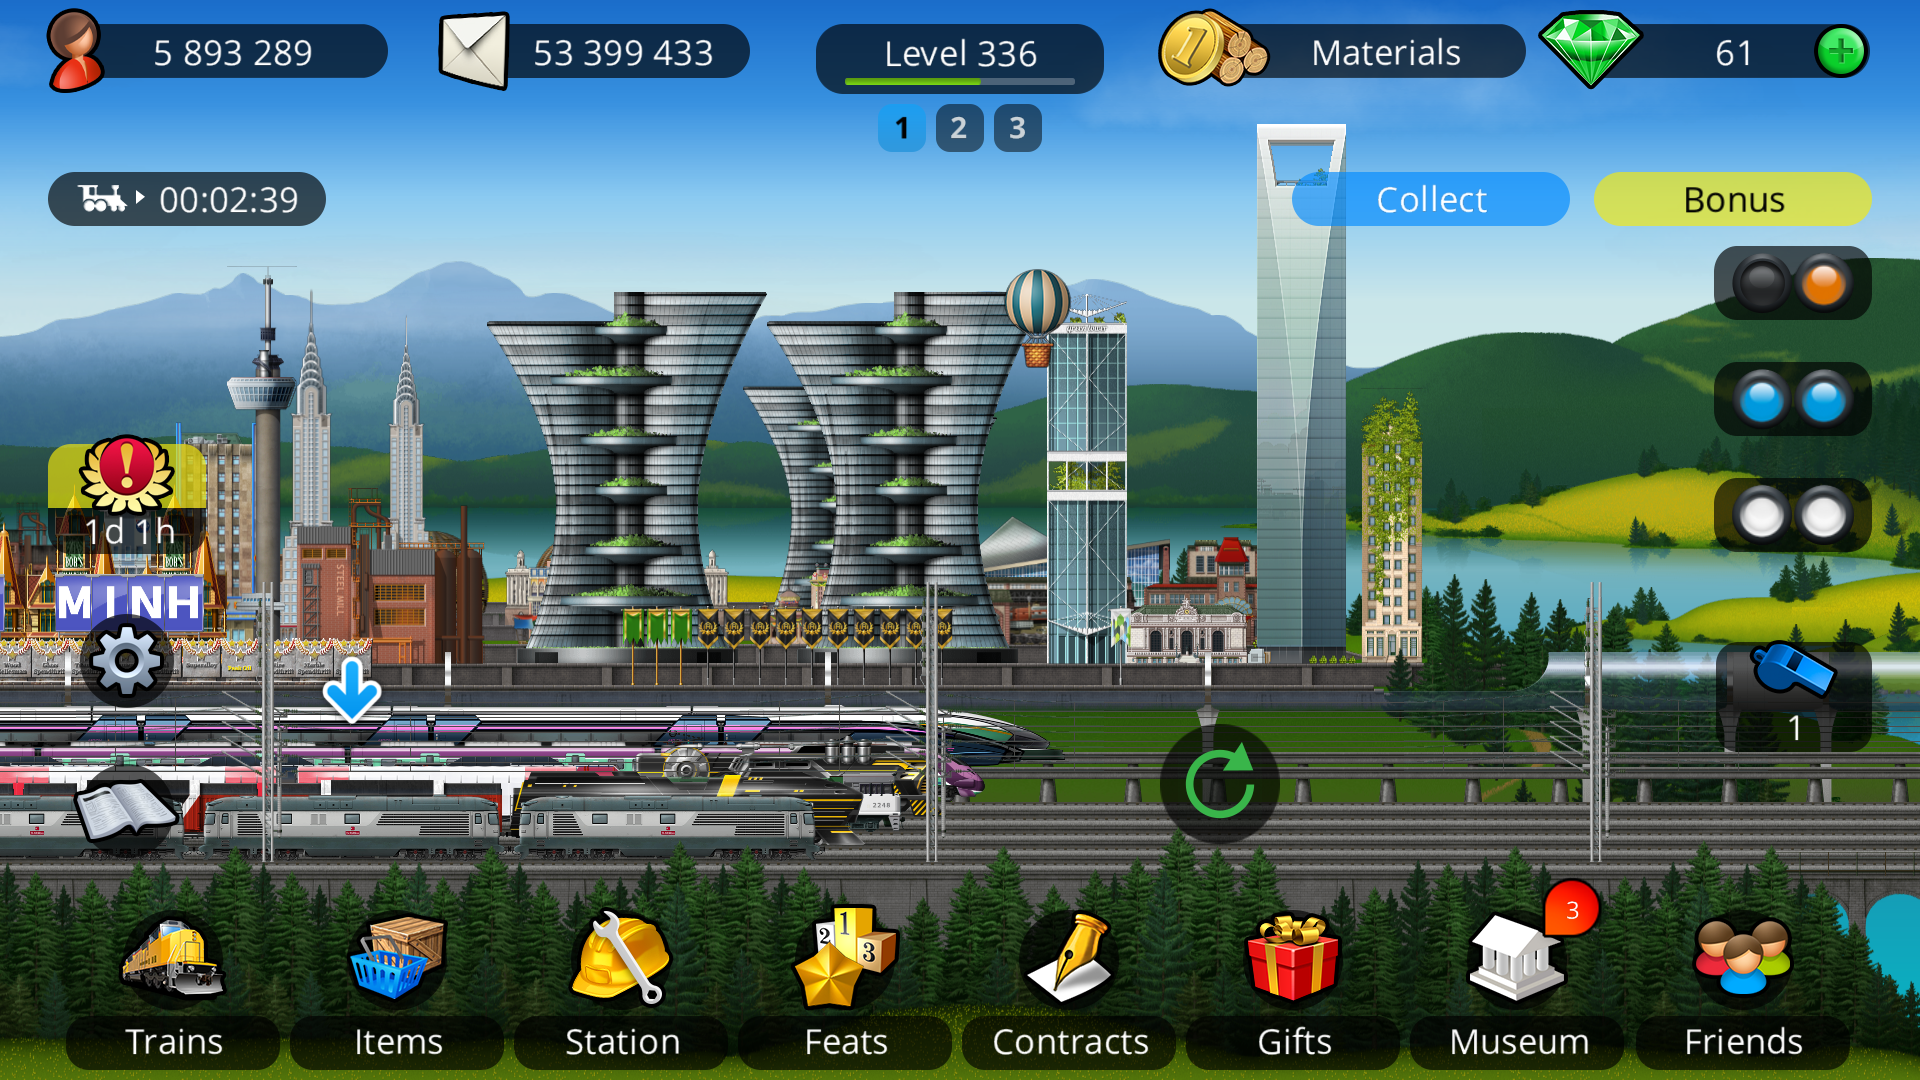
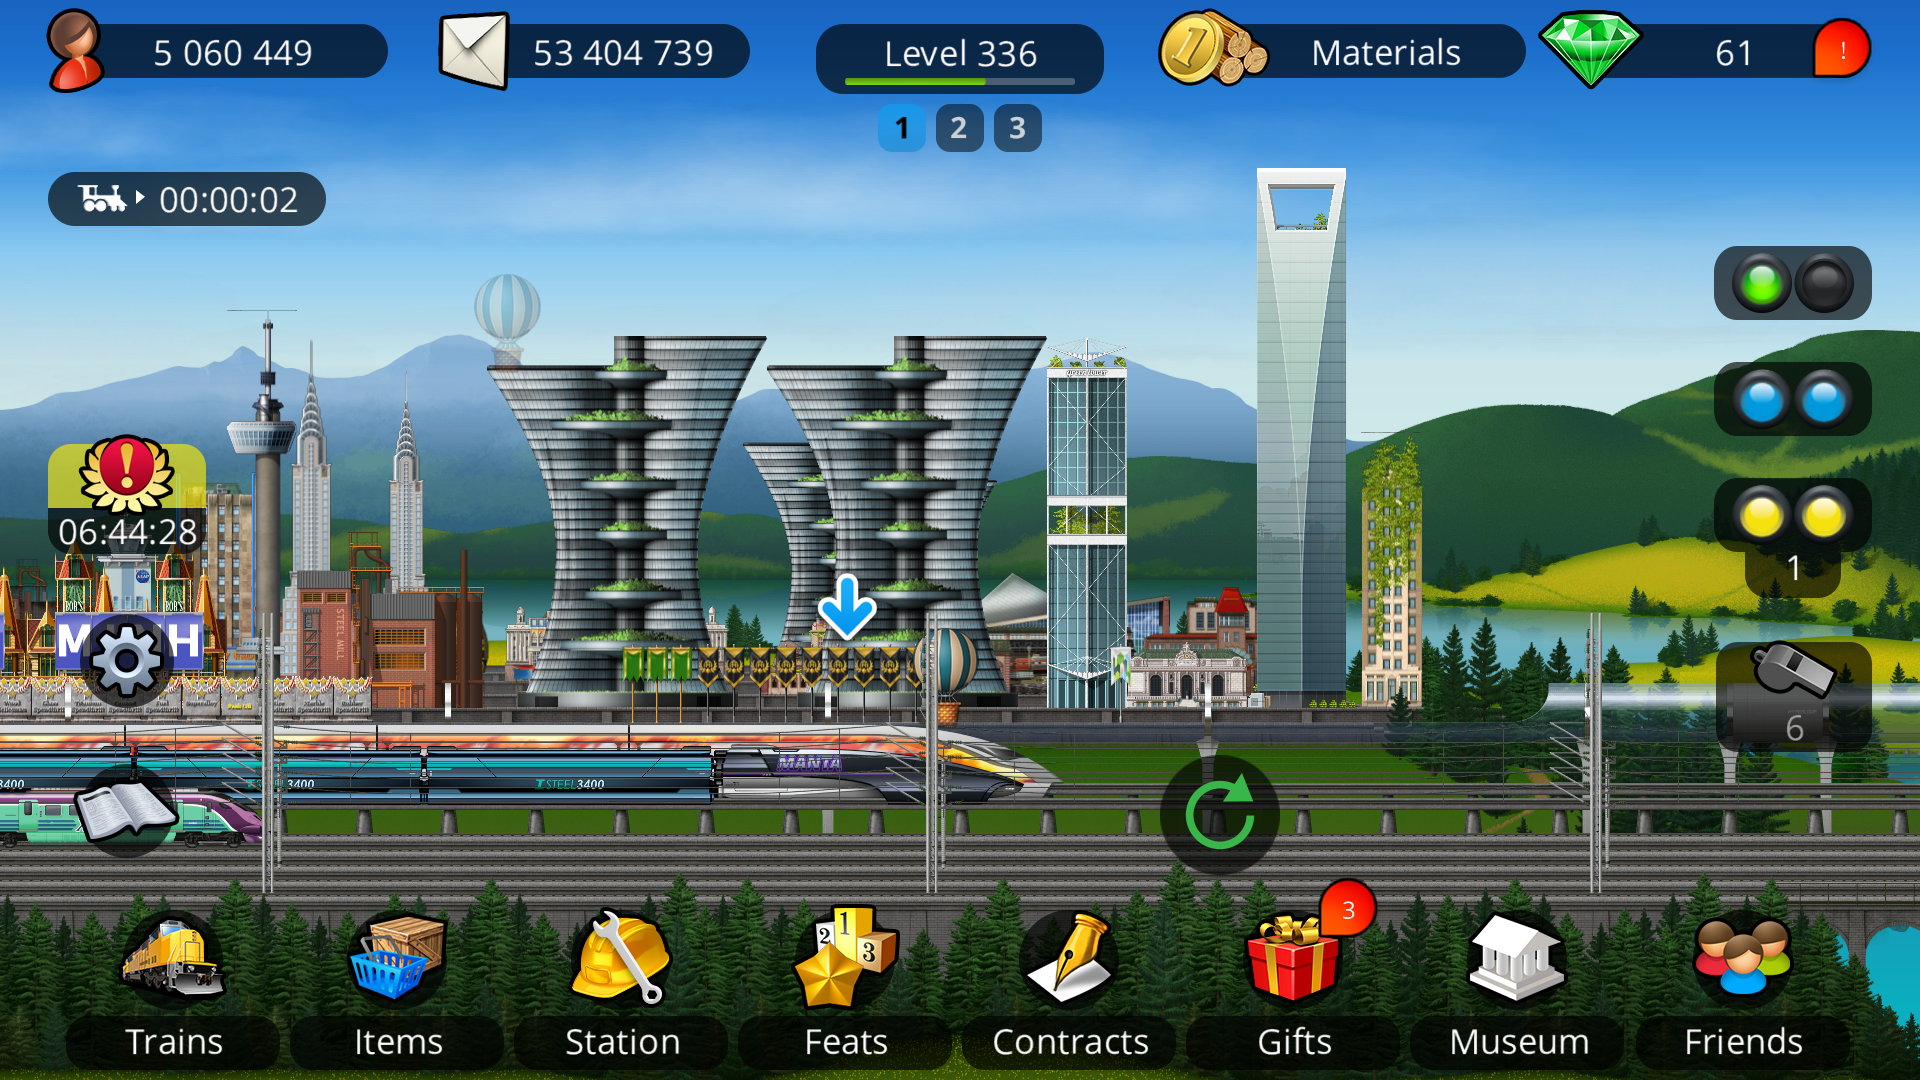
first working prototype: send train, collect bonus

diff --git a/tasks/local.py b/tasks/local.py
@@ -1,5 +1,4 @@
-import cv2
-import numpy as np
+import time
 from helper import logger, check_pixel, load_coords, load_config, save_config, click, swipe, take_screenshot
 from tasks import watch_ad
 
@@ -14,18 +13,20 @@ def metropolis(resend):
     
     click(coords['TrainBtn']['x'], coords['TrainBtn']['y'])
     swipe(500, 250, 500, 750)
+    click(coords['SendTrainBtn']['x'], coords['SendTrainBtn']['y'])
     screen = take_screenshot()
+    if check_pixel(screen, coords['SendTrainBtn']['x'], coords['SendTrainBtn']['y'], coords['SendTrainBtn']['color']):
+        click(coords['SendTrainBtn']['x'], coords['SendTrainBtn']['y'])
+        screen = take_screenshot()
     
     metro = 'Closed'
     for state in ['Open', 'Video']:
         r = check_pixel(screen, coords[f"Metropolis{state}"]['x'], coords[f"Metropolis{state}"]['y'], coords[f"Metropolis{state}"]['color'])
         if r:
             metro = state
-    
     if metro == 'Video':
-        click(coords['MetropolisVideo']['x'], coords['MetropolisVideo']['y'])
         logger.info('METROPOLIS_VIDEO')
-        if config.getboolean('LocalTrain', 'metropolis_ad'):     
+        if config.getboolean('LocalTrain', 'metro_ad'):     
             watch_ad.run()
         else:
             metro = 'Closed'
@@ -35,36 +36,59 @@ def metropolis(resend):
     logger.info('METROPOLIS_OPEN')
     save_config(config)
 
+def send():
+    screen = take_screenshot()
+    if not check_pixel(screen, coords['CloseTrainSend']['x'], coords['CloseTrainSend']['y'], coords['CloseTrainSend']['color'], 0.99):
+        click(coords['TrainBtn']['x'], coords['TrainBtn']['y'])
+        click(coords['SendTrainBtn']['x'], coords['SendTrainBtn']['y'])
+        click(coords['SendTrainBtn']['x'], coords['SendTrainBtn']['y'])
+    complete = False
+    while not complete:
+        if config.get('LocalTrain', 'destination') == 'Metropolis':
+            click(coords['MetropolisOpen']['x'], coords['MetropolisOpen']['y'])
+        else:
+            click(coords['5min']['x'], coords['5min']['y'])
+        while True:
+            screen = take_screenshot()
+            if check_pixel(screen, coords['SendTrainBtn']['x'], coords['SendTrainBtn']['y'], coords['SendTrainBtn']['color']):
+                click(coords['SendTrainBtn']['x'], coords['SendTrainBtn']['y'])
+                click(coords['SendTrainBtn']['x'], coords['SendTrainBtn']['y'])
+                break
+            if check_pixel(screen, coords['SendTrainComplete']['x'], coords['SendTrainComplete']['y'], coords['SendTrainComplete']['color']):
+                click(coords['CloseTrainSend']['x'], coords['CloseTrainSend']['y'])
+                complete = True
+                break
+            time.sleep(1)
+
 def local_state(image):
-    image = cv2.cvtColor(np.array(image), cv2.COLOR_RGB2GRAY)
-    arrvd = cv2.imread('template/arrvd.png', cv2.IMREAD_GRAYSCALE)
-    arrv = cv2.imread('template/arrv.png', cv2.IMREAD_GRAYSCALE)
-    pending = cv2.imread('template/pending.png', cv2.IMREAD_GRAYSCALE)
-    
-    arrvd = cv2.matchTemplate(image, arrvd, cv2.TM_CCOEFF_NORMED)
-    arrv = cv2.matchTemplate(image, arrv, cv2.TM_CCOEFF_NORMED)
-    pending = cv2.matchTemplate(image, pending, cv2.TM_CCOEFF_NORMED)
-    
-    r = {
-        'arrvd': cv2.minMaxLoc(arrvd)[1],
-        'arrv': cv2.minMaxLoc(arrv)[1],
-        'pending': cv2.minMaxLoc(pending)[1]
-    }
-    return max(r, key=r.get)
-    
+    if check_pixel(image, coords['LocalTrainPen1']['x'], coords['LocalTrainPen1']['y'], coords['LocalTrainPen1']['color']) or \
+        check_pixel(image, coords['LocalTrainPen2']['x'], coords['LocalTrainPen2']['y'], coords['LocalTrainPen2']['color']):
+        return 'pending'
+    if check_pixel(image, coords['LocalTrainArrv1']['x'], coords['LocalTrainArrv1']['y'], coords['LocalTrainArrv1']['color']) or \
+        check_pixel(image, coords['LocalTrainArrv2']['x'], coords['LocalTrainArrv2']['y'], coords['LocalTrainArrv2']['color']):
+        return 'arrv'
+    if check_pixel(image, coords['LocalTrainArrvd']['x'], coords['LocalTrainArrvd']['y'], coords['LocalTrainArrvd']['color']):
+        return 'arrvd'
+
 def run(image):
     state = local_state(image)
     if state == 'arrv':
         return
-    
     resend = check_pixel(image, coords['Resend']['x'], coords['Resend']['y'], coords['Resend']['color'])
     if resend and config.get('LocalTrain', 'destination') == 'Metropolis':
         click(coords['Resend']['x'], coords['Resend']['y'])
-        logger.info('RESEND')
-    metropolis(resend)
-    if config.get('LocalTrain', 'destination') != 'Metropolis':
         click(coords['Resend']['x'], coords['Resend']['y'])
         logger.info('RESEND')
-    
-    # Send dest
-        
+        return
+    metropolis(resend)
+    if resend and config.get('LocalTrain', 'destination') != 'Metropolis':
+        click(coords['CloseTrainSend']['x'], coords['CloseTrainSend']['y'])
+        click(coords['CloseTrainSend']['x'], coords['CloseTrainSend']['y'])
+        click(coords['Resend']['x'], coords['Resend']['y'])
+        click(coords['Resend']['x'], coords['Resend']['y'])
+        logger.info('RESEND')
+        return
+    send()
+
+def bonus():
+    click(coords['Bonus']['x'], coords['Bonus']['y'])

diff --git a/helper/adb_control.py b/helper/adb_control.py
@@ -1,10 +1,13 @@
 import subprocess
 import io
 from PIL import Image
-from helper import logger, load_config
+import configparser
+from helper import logger
+import time
 
 def scaled_coords(x, y):
-    config = load_config()
+    config = configparser.ConfigParser()
+    config.read('config.ini')
     w = config.getint('Emulator', 'width')
     h = config.getint('Emulator', 'height')
     scaled_x = int((x / 1920) * w)
@@ -31,10 +34,11 @@ def take_screenshot():
 def click(x, y):
     x, y = scaled_coords(x, y)
     subprocess.check_output(['adb', 'shell', 'input', 'touchscreen', 'tap', str(x), str(y)])
-    logger.debug(f"Executed click command 'adb shell input touchsreen tap {str(x)} {str(y)}'")
+    logger.debug(f"Clicked at coordinates: {str(x)} {str(y)}")
+    time.sleep(0.2)
     
 def swipe(x1, y1, x2, y2):
     x1, y1 = scaled_coords(x1, y1)
     x2, y2 = scaled_coords(x2, y2)
     subprocess.check_output(['adb', 'shell', 'input', 'touchscreen', 'swipe', str(x1), str(y1), str(x2), str(y2)])
-    logger.debug(f"Executed swipe command 'adb shell input touchscreen swipe {str(x1)} {str(y1)} {str(x2)} {str(y2)}'")
+    logger.debug(f"Swiped from {str(x1)} {str(y1)} to {str(x2)} {str(y2)}")

diff --git a/main.py b/main.py
@@ -1,12 +1,11 @@
 import tkinter as tk
 import customtkinter as ctk
 import configparser
-from helper.UI import UI
+from helper import UI, load_config
 
 def init():
-    config = configparser.ConfigParser()
-    config.read('config.ini')
-    address, port, appearance, theme, scaling, width, height = config.get('Emulator', 'address'), config.get('Emulator', 'port'), config.get('UI', 'appearance'), config.get('UI', 'theme'), config.getfloat('UI', 'scaling'), config.getint('UI', 'width'), config.getint('UI', 'height')
+    config = load_config()
+    appearance, theme, scaling, width, height = config.get('UI', 'appearance'), config.get('UI', 'theme'), config.getfloat('UI', 'scaling'), config.getint('UI', 'width'), config.getint('UI', 'height')
 
     ctk.set_appearance_mode(appearance)
     ctk.set_default_color_theme(theme)

diff --git a/tasks/startup.py b/tasks/startup.py
@@ -42,8 +42,8 @@ def complete():
         screenshot = take_screenshot()
         if check_pixel(screenshot, coords["StartupComplete"]["x"], coords["StartupComplete"]["y"], coords["StartupComplete"]["color"], 0.95):
             swipe(1000, 500, 500, 500)
-            config.set('Emulator', 'width', screenshot.width)
-            config.set('Emulator', 'height', screenshot.height)
+            config['Emulator']['width'] = str(screenshot.width)
+            config['Emulator']['height'] = str(screenshot.height)
             save_config(config)
             logger.info("STARTUP_COMPLETE")
             break

diff --git a/helper/logger.py b/helper/logger.py
@@ -1,9 +1,13 @@
 import logging
 import datetime
-from helper import load_strings, load_config
+import json
+import configparser
 
-strings = load_strings()
-config = load_config()
+strings = {}
+with open('data/strings.json') as f:
+    strings = json.load(f)
+config = configparser.ConfigParser()
+config.read('config.ini')
 loglevel = config.getint('UI', 'loglvl')
 logger = logging.getLogger('my_logger')
 logger.setLevel(loglevel)

diff --git a/bot.py b/bot.py
@@ -7,8 +7,10 @@ def main():
     while True:
         image = take_screenshot()
         states = state.check_state(image)
-        if states["LocalTrain"] == 1:
+        if states["LocalTrain"]:
             local.run(image)
+        if states['Bonus']:
+            local.bonus()
 
 if __name__ == '__main__':
     main()
